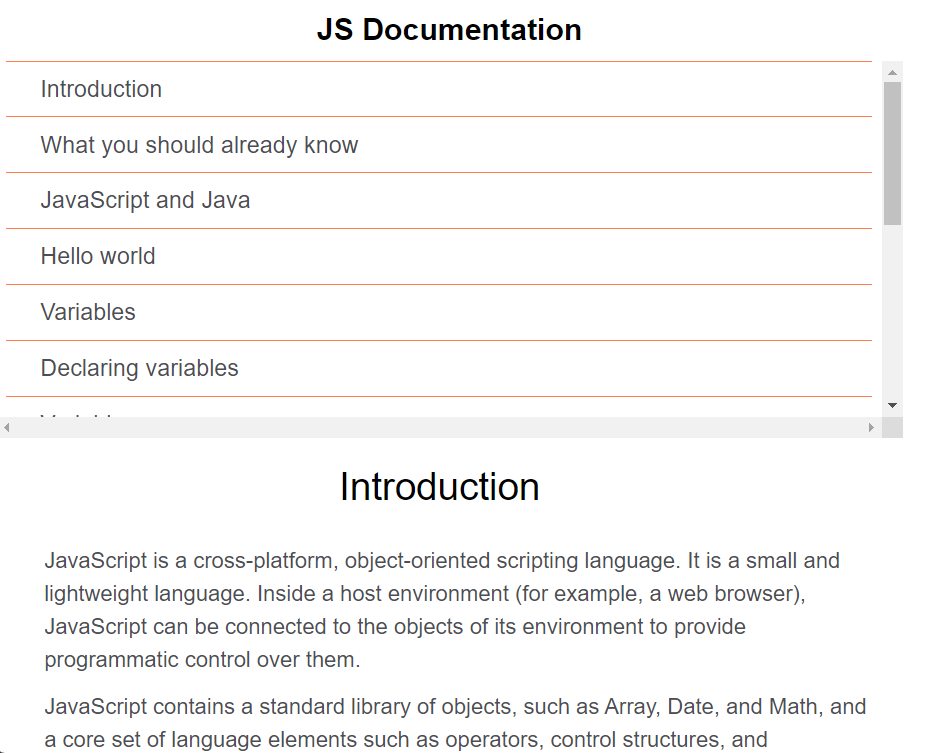
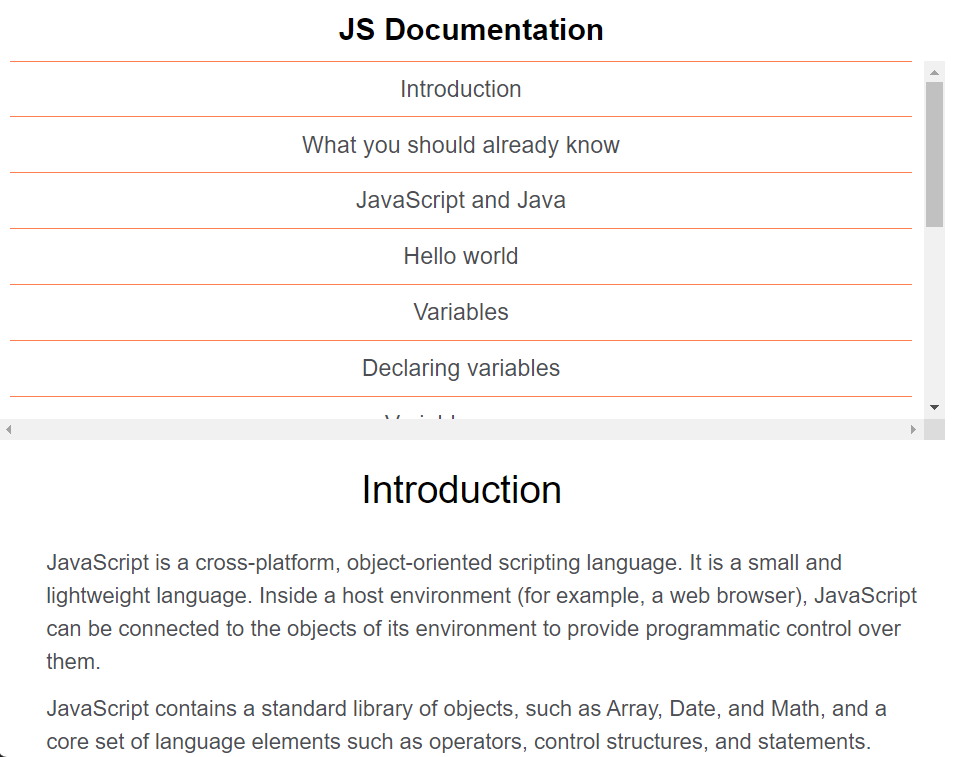
Portfolio responsiveness increased

diff --git a/ResponsiveWebDesignCertification/CertificationProject_PersonalPortfolio/styles.css b/ResponsiveWebDesignCertification/CertificationProject_PersonalPortfolio/styles.css
@@ -190,6 +190,7 @@ body{
 
 .social-links{
     width: 80%;
+    height: 40vh;
     display: flex;
     flex-wrap: wrap;
     margin: 0 auto; 
@@ -250,7 +251,7 @@ footer{
     }
 }
 
-@media (max-width: 768px){
+@media (max-width: 900px){
     #navbar ul{
         width: 72%;
     }
@@ -258,13 +259,57 @@ footer{
         width: 25%;
     }
     .project-links{
-        grid-template-columns: 45% 45%;
+        grid-template-columns: 50% 50%;
         grid-template-rows: auto;
         grid-gap: 7vh 3vw;
         justify-content: center;
     }
+    .link{
+        height: 50vh;
+    }
+    .project-title{
+        width: 90%;
+        font-size: 3rem;
+    }
+    /* .project-links{
+        grid-template-columns: 97%;
+        grid-template-rows: auto;
+        grid-gap: 7vh 3vw;
+        justify-content: center;
+    } */
+    .lets-work{
+        padding: 10vh 10vw 0vh 10vw;
+    }
+    .lets-work h1{
+        width: 90%;
+        font-size: 3rem;
+        font-family: Raleway, sans-serif;
+    }
+    .social-links{
+        width: 100%;
+        padding: 10%;
+        justify-content: space-evenly;
+    }
+    .social-link{
+        width: 40%;
+        height: 0%;
+        text-align: center;
+    }
+    .social-link a{
+        font-size: 1.4rem;
+    }
+    .link a{
+        font-size: 1.2rem;
+    }
+    footer{
+        height: 9vh;
+        font-size: 0.8rem;
+    }
+    .foot-link{
+        text-align: left;
+    }
 }
-@media (max-width: 480px){
+@media (max-width: 550px){
     #navbar ul{
         width: 97%;
     }
@@ -274,13 +319,45 @@ footer{
     #navbar li{
         padding: 5px;
     }
+    .project-title{
+        width: 90%;
+        font-size: 3rem;
+    }
     .project-links{
-        grid-template-columns: 70%;
+        grid-template-columns: 97%;
         grid-template-rows: auto;
         grid-gap: 7vh 3vw;
         justify-content: center;
     }
-    .link{
-        height: 70vh;
+    .lets-work{
+        padding: 10vh 10vw 0vh 10vw;
+    }
+    .lets-work h1{
+        width: 90%;
+        font-size: 3rem;
+        font-family: Raleway, sans-serif;
+    }
+    .social-links{
+        width: 100%;
+        padding: 10%;
+        justify-content: space-evenly;
+    }
+    .social-link{
+        width: 40%;
+        height: 0%;
+        text-align: center;
+    }
+    .social-link a{
+        font-size: 1.4rem;
+    }
+    .link a{
+        font-size: 1.4rem;
+    }
+    footer{
+        height: 9vh;
+        font-size: 0.8rem;
+    }
+    .foot-link{
+        text-align: left;
     }
 }

diff --git a/ResponsiveWebDesignCertification/CertificationProject_TechnicalDocumentation/styles.css b/ResponsiveWebDesignCertification/CertificationProject_TechnicalDocumentation/styles.css
@@ -114,7 +114,7 @@ body {
         width: 95vw;
         margin: 0 auto;
     }
-    #navbar a{
+    #navbar li a{
         text-align: center;
     }
     #main-doc{
